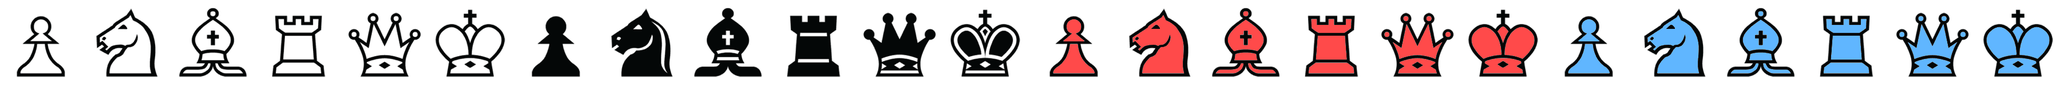
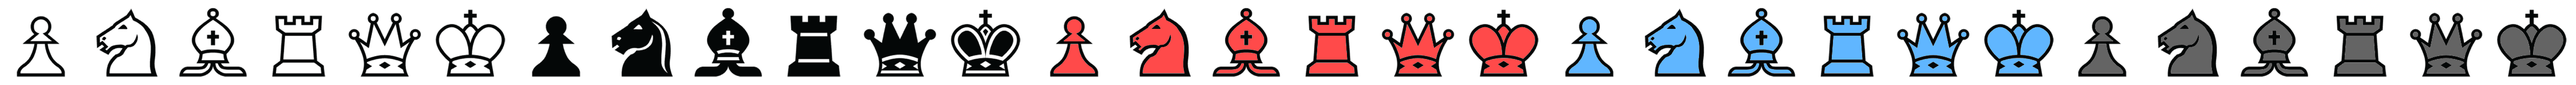
Death state for players. Pieces lerp to position when moving. Time speeds and up over time and slows down for player death

diff --git a/scenes/game.py b/scenes/game.py
@@ -8,12 +8,17 @@ from config.constants import BACKGROUND, LIGHT_SQUARE, DARK_SQUARE
 from components.chess import (
     Colour,
     Piece,
+    Move,
     generate_empty_board,
     generate_empty_player_pieces,
     place_pieces_randomly,
-    play_random_move,
+    pick_random_move,
+    remove_piece,
+    place_piece,
+    perform_capture,
 )
-from config.assets import PIECES
+from config.assets import CHESS_PIECES
+from utilities.math import lerp
 
 # Import the whole module of all scenes you want to switch to
 import scenes.mainmenu
@@ -23,21 +28,23 @@ class Game(Scene):
     def __init__(self, scene_manager: SceneManager) -> None:
         super().__init__(scene_manager)
 
-        self.squares = 40
-        self.board_size = (25, 8)
+        self.squares = 100
+        self.board_size = (15, 15)
         self.square_size = min(
             WINDOW_WIDTH // self.board_size[0], WINDOW_HEIGHT // self.board_size[1]
         )
         self.square_size_tuple = (self.square_size, self.square_size)
 
         self.scaled_pieces = [
-            pygame.transform.scale(sprite, self.square_size_tuple) for sprite in PIECES
+            pygame.transform.scale(sprite, self.square_size_tuple)
+            for sprite in CHESS_PIECES
         ]
 
         self.active_players = [Colour.RED, Colour.BLUE]
+        self.alive_players = {player: True for player in self.active_players}
 
         self.player_piece_sprites = {}
-        for colour in self.active_players:
+        for colour in list(Colour):
             coloured_pieces = [
                 self.scaled_pieces[colour.value * len(Piece) + i]
                 for i in range(len(Piece))
@@ -65,8 +72,20 @@ class Game(Scene):
         )
 
         self.turn = 0  # Index in self.active_players array
-        self.move_speed = 0.2
-        self.move_speed_timer = 0
+        self.active_player = self.active_players[self.turn]
+        self.moves = 0
+        self.moves_since_death = 0
+
+        self.starting_move_speed = 0.2
+        self.move_speed = self.starting_move_speed
+        self.move_speed_timer = self.starting_move_speed
+
+        self.active_move: Move = None
+        self.active_piece: Piece = None
+        self.active_piece_x = 0
+        self.active_piece_y = 0
+
+        self.gameover = False
 
     def handle_input(
         self, action_buffer: ActionBuffer, mouse_buffer: MouseBuffer
@@ -77,13 +96,87 @@ class Game(Scene):
         self.clicked = mouse_buffer[MouseButton.LEFT][InputState.PRESSED]
 
     def update(self, dt: float) -> None:
-        self.move_speed_timer -= dt
-        if self.move_speed_timer < 0:
-            player = self.active_players[self.turn]
+        if self.gameover:
+            return
 
-            # HACK: Move a piece if a player still has pieces on the board
-            if self.player_pieces[player]:
-                play_random_move(self.board, self.player_pieces, player)
+        self.move_speed_timer -= dt
+        if self.move_speed_timer > 0 and self.active_move:
+            # Lerp piece position
+            percent = (self.move_speed - self.move_speed_timer) / self.move_speed
+
+            self.active_piece_x = lerp(
+                self.active_move.piece_x,
+                self.active_move.target_x,
+                percent,
+            )
+            self.active_piece_y = lerp(
+                self.active_move.piece_y,
+                self.active_move.target_y,
+                percent,
+            )
+
+        else:
+            if self.active_move:
+                # Place piece that was moving
+                place_piece(
+                    self.board,
+                    self.player_pieces,
+                    self.active_player,
+                    self.active_move,
+                    self.active_piece,
+                )
+
+                # Perform capture if needed
+                captured = perform_capture(self.player_pieces, self.active_move)
+
+                # TODO: Play sound effect for move and capture
+                if captured:
+                    pass
+                else:
+                    pass
+
+                self.active_move = None
+
+                # HACK: Until I implement check, checkmate and stalemate
+                if not self.alive_players[self.active_players[0]]:
+                    self.gameover = True
+
+            # Update turn
+            self.active_player = self.active_players[self.turn]
+
+            if self.alive_players[self.active_player]:
+                selected_move = pick_random_move(
+                    self.board, self.player_pieces, self.active_player
+                )
+                if selected_move:
+                    # Set piece to move
+                    self.active_move = selected_move
+
+                    # Remove from board
+                    self.active_piece = remove_piece(
+                        self.board,
+                        self.player_pieces,
+                        self.active_player,
+                        self.active_move,
+                    )
+
+                    self.active_piece_x = self.active_move.piece_x
+                    self.active_piece_y = self.active_move.piece_y
+
+                    self.moves += 1
+                    self.moves_since_death += 1
+                    self.move_speed = max(
+                        0, self.starting_move_speed * (1 - self.moves_since_death / 50)
+                    )
+                else:
+                    # TODO: Play sound effect player death
+
+                    # Slow down game
+                    self.moves_since_death = 0
+                    self.move_speed = self.starting_move_speed
+                    self.move_speed_timer = self.move_speed
+
+                    self.alive_players[self.active_player] = False
 
             self.turn += 1
             self.turn %= len(self.active_players)
@@ -106,8 +199,25 @@ class Game(Scene):
                     if square not in piece_squares:
                         continue
 
-                    surface.blit(
-                        self.player_piece_sprites[player_colour][piece.value],
-                        position,
-                    )
+                    if self.alive_players[player_colour]:
+                        surface.blit(
+                            self.player_piece_sprites[player_colour][piece.value],
+                            position,
+                        )
+                    else:
+                        surface.blit(
+                            self.player_piece_sprites[Colour.DEAD][piece.value],
+                            position,
+                        )
                     break
+
+        # Render piece moving
+        if self.active_move:
+            screen_pos = (
+                self.active_piece_x * self.square_size + self.board_offset[0],
+                self.active_piece_y * self.square_size + self.board_offset[1],
+            )
+            surface.blit(
+                self.player_piece_sprites[self.active_player][self.active_piece.value],
+                screen_pos,
+            )

diff --git a/components/chess.py b/components/chess.py
@@ -9,6 +9,7 @@ class Colour(Enum):
     BLACK = auto()
     RED = auto()
     BLUE = auto()
+    DEAD = auto()  # Keep at end for grey pieces
 
 
 class Piece(Enum):
@@ -142,7 +143,8 @@ def generate_piece_moves(
 ) -> list[Move]:
     match (piece):
         case Piece.PAWN:
-            return get_pawn_moves(board, player_pieces, player_colour, x, y, 1)
+            d = -1 if player_colour == list(player_pieces.keys())[0] else 1
+            return get_pawn_moves(board, player_pieces, player_colour, x, y, d)
 
         case Piece.KNIGHT:
             return get_set_moves(
@@ -273,26 +275,38 @@ def get_sliding_moves(
     return moves
 
 
-def perform_move(
+def remove_piece(
     board: Board, player_pieces: PlayerPieces, player_colour: Colour, move: Move
-) -> None:
-    # Move the piece on the board
-    board[(move.target_x, move.target_y)] = board[(move.piece_x, move.piece_y)]
-    board[(move.piece_x, move.piece_y)] = None
+) -> Optional[Piece]:
+    piece = board[(move.piece_x, move.piece_y)]
 
-    # Update player_pieces for player that moved
+    board[(move.piece_x, move.piece_y)] = None
     player_pieces[player_colour].remove((move.piece_x, move.piece_y))
+
+    return piece
+
+
+def place_piece(
+    board: Board,
+    player_pieces: PlayerPieces,
+    player_colour: Colour,
+    move: Move,
+    piece: Piece,
+) -> None:
+    board[(move.target_x, move.target_y)] = piece
     player_pieces[player_colour].add((move.target_x, move.target_y))
 
-    # Update remove opponents piece if there was a capture
+
+def perform_capture(player_pieces: PlayerPieces, move: Move) -> None:
     if move.capture is not None:
         player_pieces[move.capture].remove((move.target_x, move.target_y))
 
 
-def play_random_move(
+def pick_random_move(
     board: Board, player_pieces: PlayerPieces, player_colour: Colour
-) -> None:
+) -> Optional[Move]:
     possible_moves = generate_pseudo_moves(board, player_pieces, player_colour)
     if possible_moves:
-        selected_move = random.choice(possible_moves)
-        perform_move(board, player_pieces, player_colour, selected_move)
+        return random.choice(possible_moves)
+    else:
+        return None

diff --git a/config/assets.py b/config/assets.py
@@ -24,7 +24,7 @@ pygame.display.set_caption(CAPTION)
 
 # Load all sprite files (Ideally .png/.webp or .jpg for browser compatibility)
 IMPOSSIBLE_SPIN_FRAMES = slice_sheet("assets/impossible_spin.png", 64, 64)
-PIECES = slice_sheet("assets/pieces_coloured.png", 150, 150)
+CHESS_PIECES = slice_sheet("assets/pieces_coloured.png", 150, 150)
 
 # Load all audio files (Must be .ogg file for browser compatibility)
 pass
